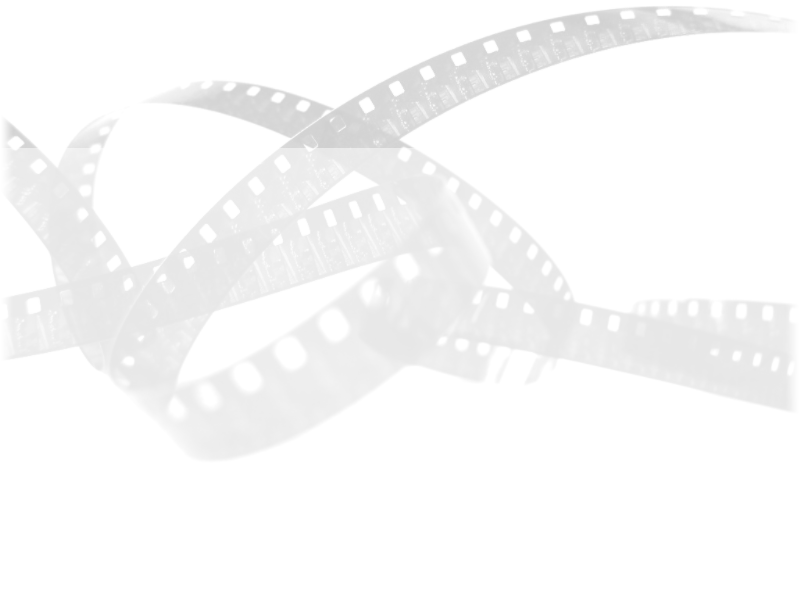
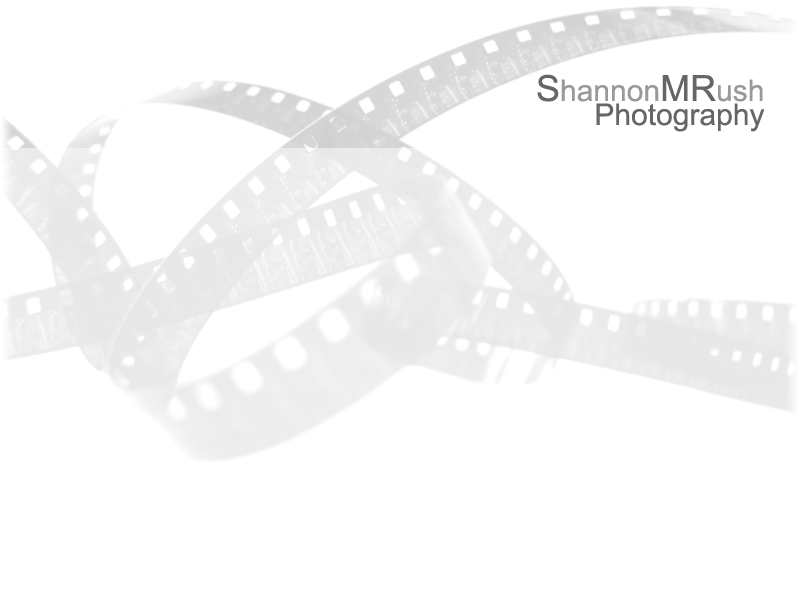
fixing bg

Changed region(s): [[0.6562, 0.12, 0.9688, 0.24]]

diff --git a/public/stylesheets/style.css b/public/stylesheets/style.css
@@ -25,7 +25,7 @@ a {
 	display:none;
 }
 .main_logo {
-	position: absolute; top: 68px; right: 252px;
+	position: relative;
 }
 .main_logo img {
 	border: none;
